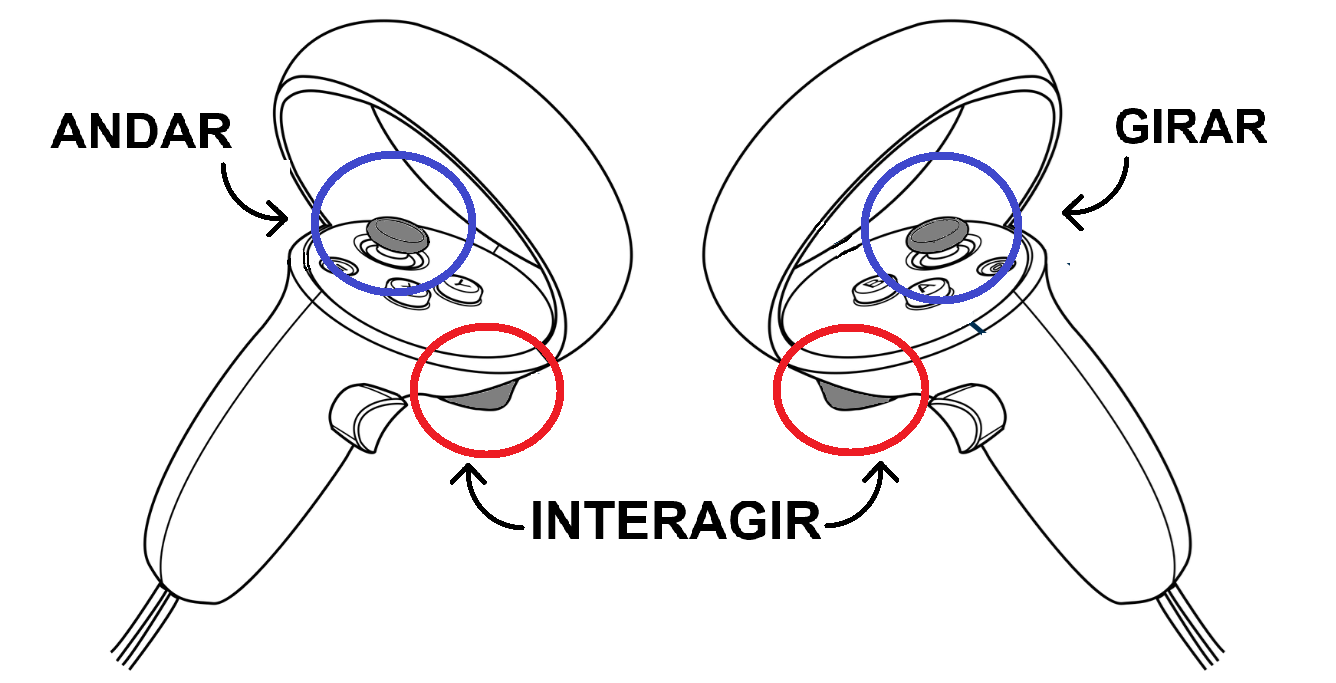
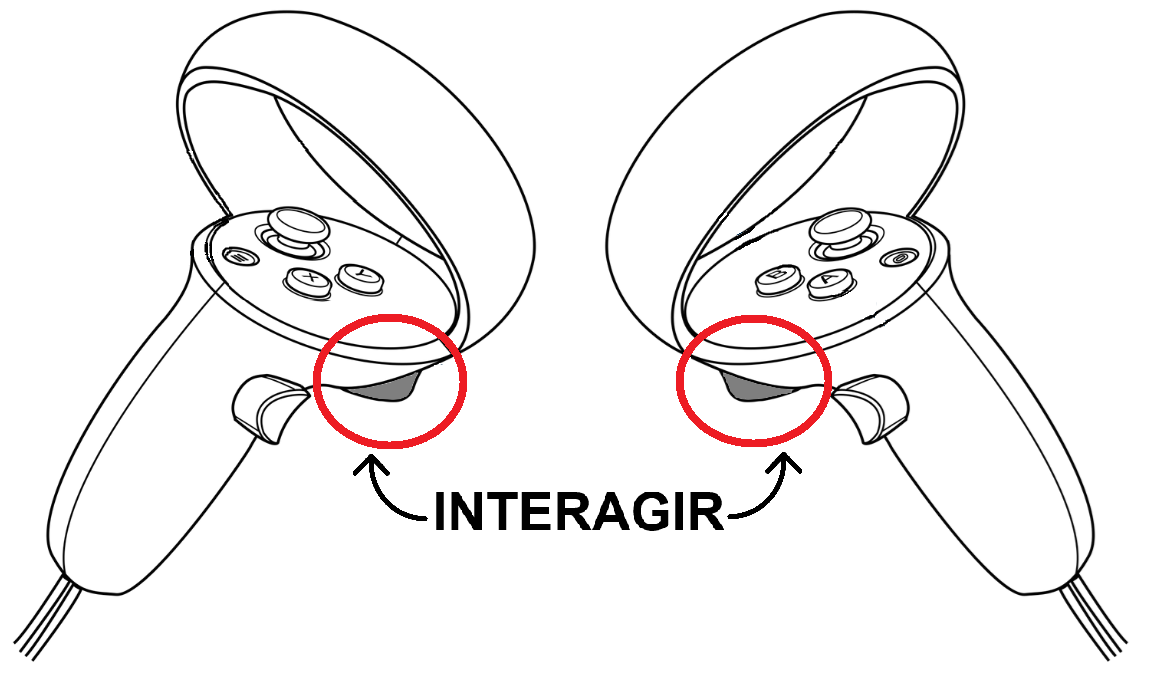
chore(controller): remove movement controller

diff --git a/index.html b/index.html
@@ -40,8 +40,7 @@
       <!-- Rig do usuário -->
       <a-entity
         id="rig"
-        position="0.6 0 -2"
-        movement-controls="fly:false; speed:0.12; camera: #hmd"
+        position="0.6 0 -3"
         simple-navmesh-constraint="navmesh: .navmesh; xzOrigin: #hmd; height: 0;
         fall: 0.6"
       >
@@ -92,6 +91,13 @@
           text="value: 0; align:center; color:black; width:2.5;"
         ></a-entity>
       </a-entity>
+
+      <a-entity
+        position="-3.064 2.472 -2.302"
+        rotation="0 90 0"
+        scale="2 2 1"
+        text="value: Controles; align:center; color:black; width:2.5;"
+      ></a-entity>
 
       <a-entity
         id="reload_button"
